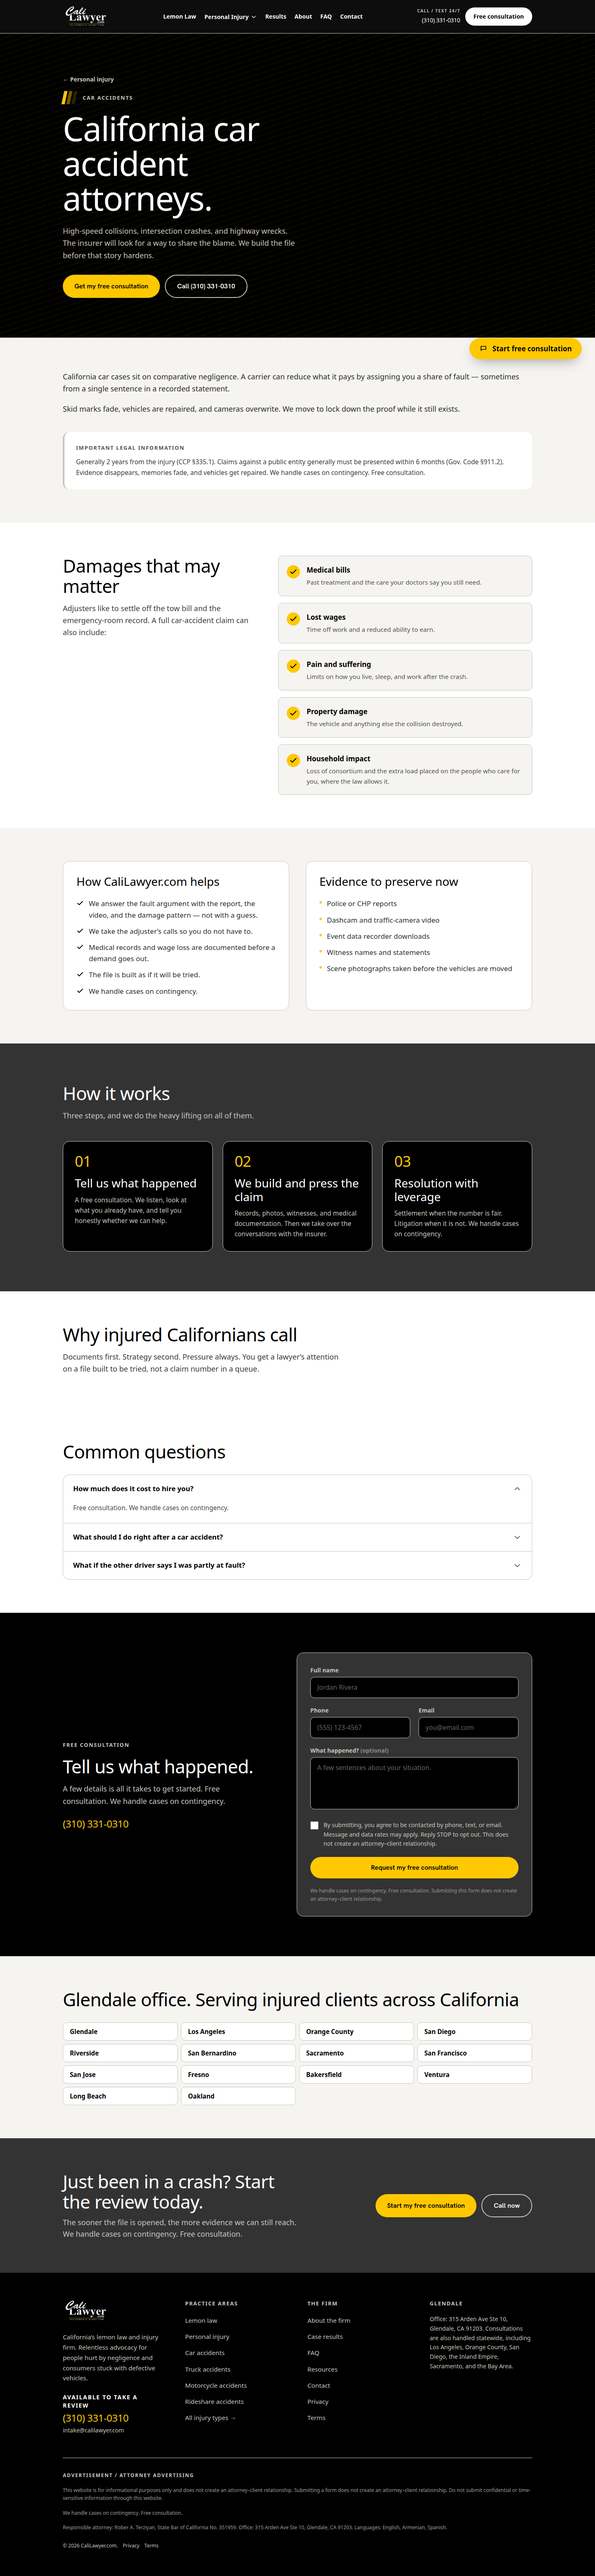
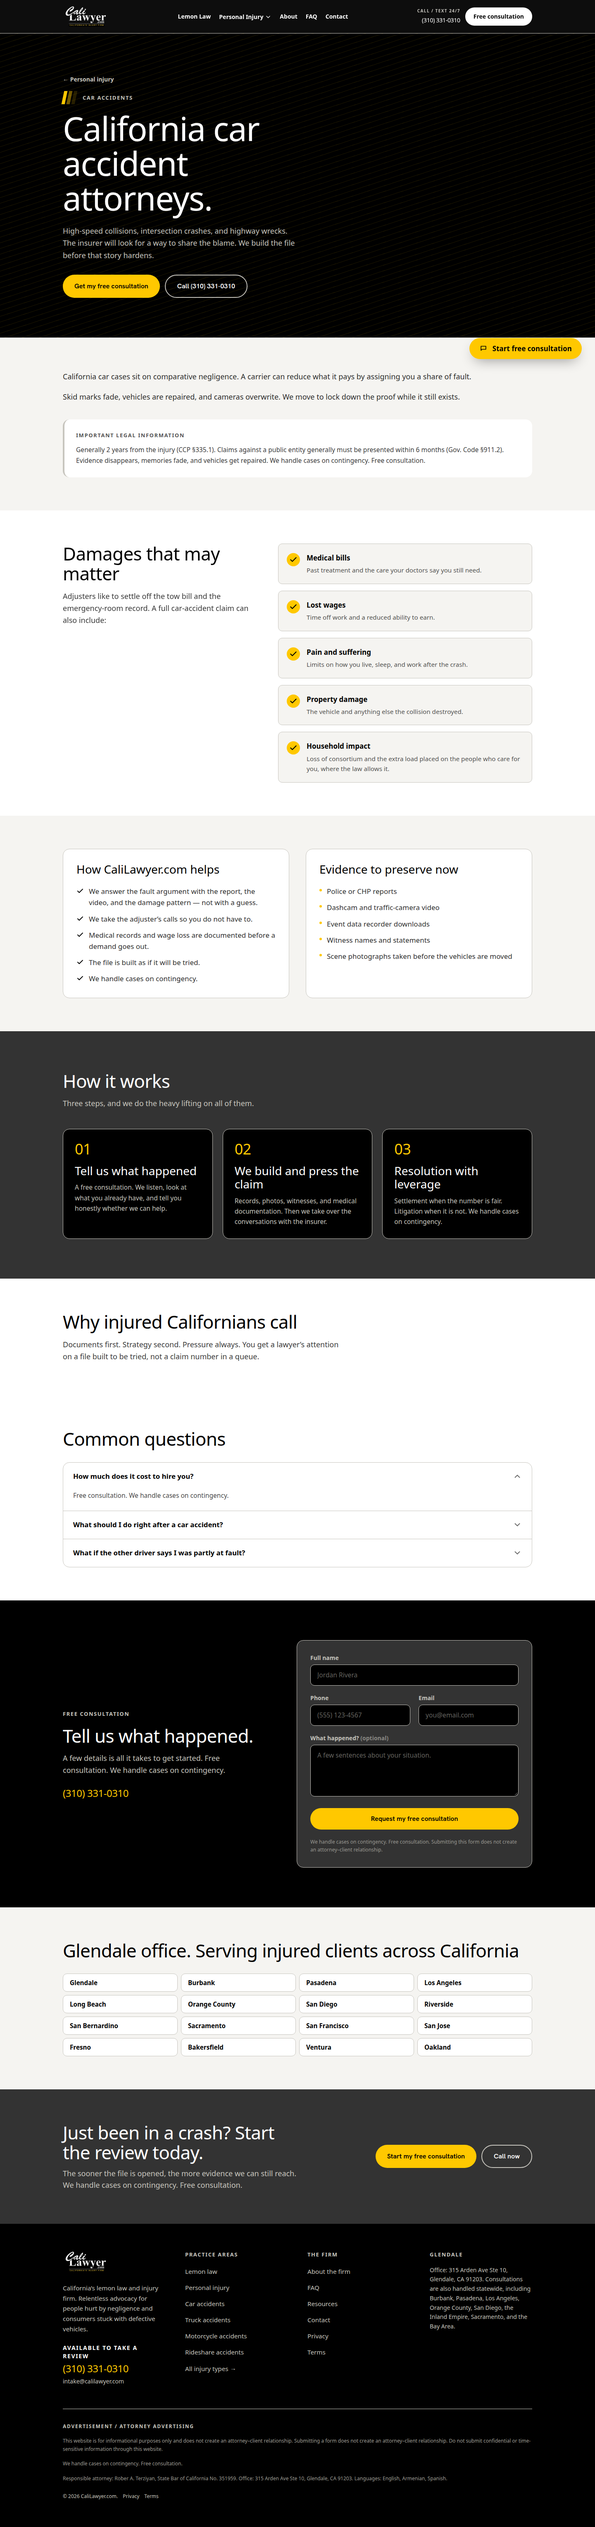
Remove unsigned launch copy and add Netlify apex redirects.
Drop the TCPA consent checkbox and the matching contact and privacy sentences so the form still submits. Remove recorded-statement advice until Robby signs off. List Glendale, then Burbank and Pasadena, ahead of the rest of the state, and take /results out of the header and footer. Canonicals already resolve to https://calilawyer.com; add the Netlify build config and forced 301s for the old Replit paths plus www and *.netlify.app.

diff --git a/src/lib/content/injury.ts b/src/lib/content/injury.ts
@@ -15,7 +15,7 @@ export const injuryContent: PracticeAreaContent = {
   },
 
   intro: [
-    "The other side starts the same day you are hurt. An adjuster sounds helpful, asks for a recorded statement, and floats a number before you know what the injury will cost. That sequence is a playbook, not a courtesy.",
+    "The other side starts the same day you are hurt. An adjuster sounds helpful and floats a number before you know what the injury will cost. That sequence is a playbook, not a courtesy.",
     "CaliLawyer.com, in Glendale, reviews crashes, rideshare collisions, trucking wrecks, motorcycle and pedestrian injuries, dog bites, premises claims, catastrophic injuries, and wrongful death. We gather the evidence, document the damages, and deal with the carrier directly.",
   ],
 
@@ -61,7 +61,6 @@ export const injuryContent: PracticeAreaContent = {
       "Get medical care, even if you feel steady in the moment.",
       "Photograph the scene, vehicles, hazards, and visible injuries.",
       "Save witness names, incident reports, and any video you already have.",
-      "Do not give a recorded statement before we have talked.",
       "Call while evidence still exists — cameras overwrite and vehicles get repaired.",
       "Keep every bill, wage record, and out-of-pocket receipt.",
     ],
@@ -73,7 +72,6 @@ export const injuryContent: PracticeAreaContent = {
       "A rear-end crash left neck and back pain that will not quit.",
       "The insurer’s first offer does not cover the medical bills.",
       "You were hit by an uninsured or hit-and-run driver.",
-      "An adjuster is pushing for a recorded statement.",
       "Fault is disputed and you are not sure who to call.",
       "A loved one was seriously hurt and cannot manage the claim.",
     ],
@@ -84,13 +82,6 @@ export const injuryContent: PracticeAreaContent = {
     intro:
       "The moment you are injured, the at-fault party’s insurer can start a process aimed at paying less. These are three moves we see, and how the file answers them.",
     items: [
-      {
-        tactic: "Recorded statements",
-        reality:
-          "Adjusters ask questions that can pin fault on you or shrink the injury.",
-        counter:
-          "We handle the communication. You do not have to speak to their adjuster.",
-      },
       {
         tactic: "Quick settlements",
         reality:
@@ -149,10 +140,6 @@ export const injuryContent: PracticeAreaContent = {
     {
       q: "How much does it cost to hire you?",
       a: `Free consultation. ${FEE_TERMS}`,
-    },
-    {
-      q: "Should I talk to the other driver’s insurance company?",
-      a: "It is best not to give a recorded statement first. Adjusters are trained to collect statements that reduce claims. Let us handle those calls.",
     },
     {
       q: "How long do I have to file a claim?",

diff --git a/src/components/LeadForm.tsx b/src/components/LeadForm.tsx
@@ -23,7 +23,6 @@ interface Fields {
   phone: string;
   email: string;
   details: string;
-  consent: boolean;
   caseType: CaseType;
   vehicle: string;
   ownership: Ownership;
@@ -36,7 +35,6 @@ const EMPTY: Fields = {
   phone: "",
   email: "",
   details: "",
-  consent: false,
   caseType: "Not Sure",
   vehicle: "",
   ownership: "",
@@ -62,7 +60,6 @@ function validate(f: Fields, practice: LeadFormProps["practice"]): FieldErrors {
     if (!f.repairVisits) e.repairVisits = "Select the approximate repair visits.";
     if (!f.daysOut) e.daysOut = "Select how long it has been out of service.";
   }
-  if (!f.consent) e.consent = "Please agree before submitting.";
   return e;
 }
 
@@ -323,36 +320,6 @@ export function LeadForm({ practice = "general", tone = "light" }: LeadFormProps
             className={`${inputBase} resize-y`}
             placeholder="A few sentences about your situation."
           />
-        </div>
-
-        {/* Consent */}
-        <div>
-          <label
-            htmlFor={`${uid}-consent`}
-            className={`flex cursor-pointer items-start gap-3 text-sm leading-relaxed ${
-              isDark ? "text-bone" : "text-ink/80"
-            }`}
-          >
-            <input
-              id={`${uid}-consent`}
-              name="consent"
-              type="checkbox"
-              checked={fields.consent}
-              onChange={(e) => update("consent", e.target.checked)}
-              aria-invalid={!!errors.consent}
-              aria-describedby={
-                errors.consent ? `${uid}-consent-error` : undefined
-              }
-              className="mt-0.5 h-5 w-5 shrink-0 accent-[var(--color-gold)]"
-            />
-            <span>
-              By submitting, you agree to be contacted by
-              phone, text, or email. Message and data rates may apply. Reply
-              STOP to opt out. This does not create an attorney–client
-              relationship.
-            </span>
-          </label>
-          {fieldError("consent")}
         </div>
 
         {/* Submit-level error */}

diff --git a/src/lib/content/accidents-liability.ts b/src/lib/content/accidents-liability.ts
@@ -13,7 +13,7 @@ export const pedestrianAccident = {
     headline: "California pedestrian accident attorneys.",
     sub: "A person on foot does not have a bumper or an airbag. These injuries are severe, and the defense still looks for a reason the pedestrian was “wrong.”",
     difference:
-      "Expect an argument about the crosswalk, the signal, or a phone in your hand. Those facts can matter under comparative fault. They are not a reason to give a statement before the video is saved.",
+      "Expect an argument about the crosswalk, the signal, or a phone in your hand. Those facts can matter under comparative fault.",
     evidenceIntro:
       "Intersection cameras and nearby businesses overwrite on a short loop. We ask for the footage immediately.",
     evidence: [
@@ -122,7 +122,7 @@ export const dogBite = {
       },
       {
         q: "The owner says the dog was provoked.",
-        a: "Provocation and trespass are arguments the defense raises. Tell us exactly what happened. Do not debate it with the owner or the carrier on a recorded line.",
+        a: "Provocation and trespass are arguments the defense raises. Tell us exactly what happened.",
       },
     ],
     finalHeadline: "Photograph the wound and call before it heals unseen.",

diff --git a/src/lib/content/faq.ts b/src/lib/content/faq.ts
@@ -13,7 +13,7 @@ export const SITE_FAQS: FaqItem[] = [
   },
   {
     q: "What should I do immediately after an auto accident?",
-    a: "Get to safety and call 911 so a report can be made. Seek medical care even if you feel fine. Photograph the scene, the vehicles, and visible injuries. Do not give a recorded statement to the other driver’s insurer before you have talked with a lawyer.",
+    a: "Get to safety and call 911 so a report can be made. Seek medical care even if you feel fine. Photograph the scene, the vehicles, and visible injuries.",
   },
   {
     q: "Can I still call for a review if I am not sure I have a case?",
@@ -21,7 +21,7 @@ export const SITE_FAQS: FaqItem[] = [
   },
   {
     q: "Do you handle cases throughout California?",
-    a: "Yes. The office is in Glendale, and we review matters statewide, including Los Angeles, Orange County, San Diego, the Inland Empire, Sacramento, and the Bay Area. Much of the process can be handled remotely.",
+    a: "Yes. The office is in Glendale. We also help clients in Burbank, Pasadena, Los Angeles, Orange County, San Diego, the Inland Empire, Sacramento, and the Bay Area. Much of the process can be handled remotely.",
   },
   {
     q: "Does submitting a form make me a client?",

diff --git a/src/lib/content/accidents-vehicle.ts b/src/lib/content/accidents-vehicle.ts
@@ -14,7 +14,7 @@ export const carAccident = {
     headline: "California car accident attorneys.",
     sub: "High-speed collisions, intersection crashes, and highway wrecks. The insurer will look for a way to share the blame. We build the file before that story hardens.",
     difference:
-      "California car cases sit on comparative negligence. A carrier can reduce what it pays by assigning you a share of fault — sometimes from a single sentence in a recorded statement.",
+      "California car cases sit on comparative negligence. A carrier can reduce what it pays by assigning you a share of fault.",
     evidenceIntro:
       "Skid marks fade, vehicles are repaired, and cameras overwrite. We move to lock down the proof while it still exists.",
     evidence: [
@@ -55,7 +55,7 @@ export const carAccident = {
     faqs: [
       {
         q: "What should I do right after a car accident?",
-        a: "Get to safety, call 911, photograph the scene, and get medical care even if you feel fine. Then call us before any recorded statement.",
+        a: "Get to safety, call 911, photograph the scene, and get medical care even if you feel fine.",
       },
       {
         q: "What if the other driver says I was partly at fault?",

diff --git a/src/app/privacy/page.tsx b/src/app/privacy/page.tsx
@@ -35,19 +35,13 @@ export default function PrivacyPage() {
             if you later sign a retainer — provide legal services. We also use
             it to meet legal duties that apply to the firm.
           </p>
-          <h2 className="h-card text-ink">3. Calls and texts</h2>
-          <p>
-            If you submit a phone number, you agree we may
-            contact you by phone or text about that inquiry. Message and data
-            rates may apply. Reply STOP to opt out of texts.
-          </p>
-          <h2 className="h-card text-ink">4. Sharing</h2>
+          <h2 className="h-card text-ink">3. Sharing</h2>
           <p>
             We do not sell personal information. We share it with people inside
             the firm and with service providers needed to operate the practice
             or evaluate the inquiry.
           </p>
-          <h2 className="h-card text-ink">5. Attorney–client privilege</h2>
+          <h2 className="h-card text-ink">4. Attorney–client privilege</h2>
           <p>
             Information sent through this website is not privileged until a
             written retainer creates an attorney–client relationship. Do not

diff --git a/src/lib/site.ts b/src/lib/site.ts
@@ -38,7 +38,6 @@ export const ATTORNEY = {
 export const NAV = [
   { label: "Lemon Law", href: "/lemon-law" },
   { label: "Personal Injury", href: "/injury" },
-  { label: "Results", href: "/results" },
   { label: "About", href: "/about" },
   { label: "FAQ", href: "/faq" },
   { label: "Contact", href: "/contact" },
@@ -46,7 +45,6 @@ export const NAV = [
 
 export const FIRM_LINKS = [
   { label: "About the firm", href: "/about" },
-  { label: "Case results", href: "/results" },
   { label: "FAQ", href: "/faq" },
   { label: "Resources", href: "/blog" },
   { label: "Contact", href: "/contact" },
@@ -100,7 +98,10 @@ export const INJURY_LINKS = [
 
 export const SERVICE_CITIES = [
   "Glendale",
+  "Burbank",
+  "Pasadena",
   "Los Angeles",
+  "Long Beach",
   "Orange County",
   "San Diego",
   "Riverside",
@@ -111,6 +112,5 @@ export const SERVICE_CITIES = [
   "Fresno",
   "Bakersfield",
   "Ventura",
-  "Long Beach",
   "Oakland",
 ] as const;

diff --git a/src/lib/content/blog.ts b/src/lib/content/blog.ts
@@ -18,15 +18,8 @@ export const BLOG_POSTS: BlogPost[] = [
     title: "What to do after a car accident in California",
     category: "Personal Injury",
     excerpt:
-      "A short sequence for protecting your health and your claim in the hours after a collision: safety, medical care, photos, and no recorded statement.",
+      "A short sequence for protecting your health and your claim in the hours after a collision: safety, medical care, and photos.",
     date: "Jan 10, 2024",
-  },
-  {
-    title: "Why insurance adjusters call so quickly",
-    category: "Personal Injury",
-    excerpt:
-      "The early call is usually about a recorded statement, not a welfare check. Here is what that conversation is designed to capture.",
-    date: "Jan 05, 2024",
   },
   {
     title: "Is my used car covered by the lemon law?",

diff --git a/src/app/contact/page.tsx b/src/app/contact/page.tsx
@@ -54,12 +54,6 @@ export default function ContactPage() {
               <span className="font-semibold text-ink">Office: </span>
               {OFFICE.display}
             </p>
-            <p className="border-l-4 border-gold pl-4 text-sm leading-relaxed text-ink/70">
-              By submitting, you agree to be contacted by
-              phone, text, or email. Message and data rates may apply. Reply
-              STOP to opt out. This does not create an attorney–client
-              relationship.
-            </p>
           </div>
           <div id="lead-form" className="scroll-mt-28">
             <LeadForm practice="general" tone="light" />

diff --git a/src/components/Footer.tsx b/src/components/Footer.tsx
@@ -70,8 +70,8 @@ export function Footer() {
             <h2 className="eyebrow text-bone">Glendale</h2>
             <p className="mt-4 text-sm leading-relaxed text-bone">
               Office: {OFFICE.display}. Consultations are also handled statewide,
-              including Los Angeles, Orange County, San Diego, the Inland Empire,
-              Sacramento, and the Bay Area.
+              including Burbank, Pasadena, Los Angeles, Orange County, San Diego,
+              the Inland Empire, Sacramento, and the Bay Area.
             </p>
           </div>
         </div>
